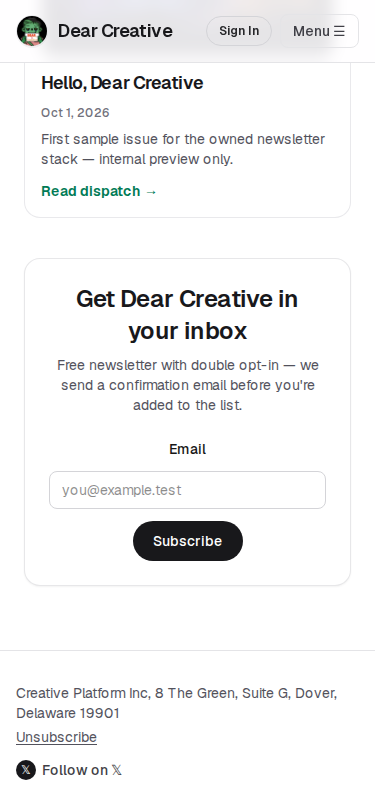
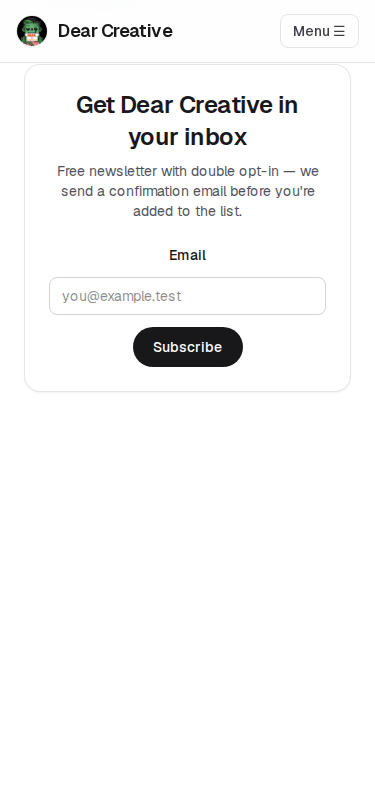
fix(header): single scroll offset and tighter subscribe e2e
Remove html scroll-padding-top (Bugbot/CTO) and rely on #subscribe
scroll-margin via Tailwind plus shared scrollHomeSubscribeIntoView.
Add homepage scroll slack spacer, useLayoutEffect hash correction, and
e2e bounds (0–24px gap, strict /#subscribe URL wait).

diff --git a/src/components/site-header-mobile-subscribe.render.test.tsx b/src/components/site-header-mobile-subscribe.render.test.tsx
@@ -39,11 +39,37 @@ vi.mock("./providers/app-providers", () => ({
 }));
 
 describe("onSubscribeNavClick (homepage)", () => {
+  afterEach(() => {
+    vi.restoreAllMocks();
+  });
+
   it("scrolls to subscribe in-page and runs afterNavigate", () => {
     const section = document.createElement("section");
     section.id = HOME_SUBSCRIBE_SECTION_ID;
-    section.scrollIntoView = vi.fn();
+    section.getBoundingClientRect = () =>
+      ({
+        top: 200,
+        bottom: 400,
+        left: 0,
+        right: 0,
+        width: 0,
+        height: 0,
+        x: 0,
+        y: 200,
+        toJSON: () => ({}),
+      }) as DOMRect;
     document.body.appendChild(section);
+    Object.defineProperty(window, "scrollY", { value: 100, configurable: true });
+    Object.defineProperty(document.documentElement, "scrollHeight", {
+      value: 2000,
+      configurable: true,
+    });
+    Object.defineProperty(window, "innerHeight", { value: 800, configurable: true });
+    vi.spyOn(window, "scrollTo").mockImplementation(() => {});
+    vi.spyOn(window, "getComputedStyle").mockReturnValue({
+      scrollMarginTop: "64px",
+    } as CSSStyleDeclaration);
+
     const afterNavigate = vi.fn();
     const preventDefault = vi.fn();
     const handler = onSubscribeNavClick("/", afterNavigate);
@@ -51,10 +77,7 @@ describe("onSubscribeNavClick (homepage)", () => {
       preventDefault,
     } as unknown as React.MouseEvent<HTMLAnchorElement>);
     expect(preventDefault).toHaveBeenCalledTimes(1);
-    expect(section.scrollIntoView).toHaveBeenCalledWith({
-      behavior: "smooth",
-      block: "start",
-    });
+    expect(window.scrollTo).toHaveBeenCalledWith({ top: 236, behavior: "smooth" });
     expect(afterNavigate).toHaveBeenCalledTimes(1);
     section.remove();
   });

diff --git a/src/components/home/scroll-home-subscribe-into-view.test.ts b/src/components/home/scroll-home-subscribe-into-view.test.ts
@@ -1,0 +1,43 @@
+/**
+ * @vitest-environment jsdom
+ */
+import { describe, expect, it, vi } from "vitest";
+import { HOME_SUBSCRIBE_SECTION_ID } from "./home-subscribe-cta";
+import { scrollHomeSubscribeIntoView } from "./scroll-home-subscribe-into-view";
+
+describe("scrollHomeSubscribeIntoView", () => {
+  it("scrolls using scroll-margin-top from computed styles", () => {
+    const section = document.createElement("section");
+    section.id = HOME_SUBSCRIBE_SECTION_ID;
+    section.getBoundingClientRect = () =>
+      ({
+        top: 200,
+        bottom: 400,
+        left: 0,
+        right: 0,
+        width: 0,
+        height: 0,
+        x: 0,
+        y: 200,
+        toJSON: () => ({}),
+      }) as DOMRect;
+    document.body.appendChild(section);
+
+    Object.defineProperty(window, "scrollY", { value: 100, configurable: true });
+    Object.defineProperty(window, "innerHeight", { value: 800, configurable: true });
+    Object.defineProperty(document.documentElement, "scrollHeight", {
+      value: 3000,
+      configurable: true,
+    });
+
+    vi.spyOn(window, "getComputedStyle").mockReturnValue({
+      scrollMarginTop: "64px",
+    } as CSSStyleDeclaration);
+    const scrollTo = vi.spyOn(window, "scrollTo").mockImplementation(() => {});
+
+    scrollHomeSubscribeIntoView("instant");
+
+    expect(scrollTo).toHaveBeenCalledWith({ top: 236, behavior: "instant" });
+    section.remove();
+  });
+});

diff --git a/e2e/subscribe-nav-hash-scroll.spec.ts b/e2e/subscribe-nav-hash-scroll.spec.ts
@@ -19,7 +19,7 @@ test.describe("Subscribe nav and hash scroll", () => {
       "aria-expanded",
       "false",
     );
-    await page.waitForURL(/\/?(#subscribe)?$/, { timeout: 15_000 });
+    await page.waitForURL(/\/#subscribe$/, { timeout: 15_000 });
   });
 
   test("#subscribe is not hidden under the sticky header at 375px", async ({ page }) => {
@@ -29,15 +29,17 @@ test.describe("Subscribe nav and hash scroll", () => {
     const subscribe = page.locator("#subscribe");
     await expect(subscribe).toBeVisible({ timeout: 15_000 });
 
+    const maxGapPx = 24;
+
     await page.waitForFunction(
-      () => {
+      (maxGap) => {
         const header = document.querySelector("header");
         const section = document.getElementById("subscribe");
         if (!header || !section) return false;
         const gap = section.getBoundingClientRect().top - header.getBoundingClientRect().bottom;
-        return gap >= -1;
+        return gap >= 0 && gap <= maxGap;
       },
-      undefined,
+      maxGapPx,
       { timeout: 15_000 },
     );
 
@@ -49,6 +51,7 @@ test.describe("Subscribe nav and hash scroll", () => {
     });
 
     expect(gap).not.toBeNull();
-    expect(gap!).toBeGreaterThanOrEqual(-1);
+    expect(gap!).toBeGreaterThanOrEqual(0);
+    expect(gap!).toBeLessThanOrEqual(maxGapPx);
   });
 });

diff --git a/src/components/home/home-subscribe-hash-scroll.tsx b/src/components/home/home-subscribe-hash-scroll.tsx
@@ -1,22 +1,23 @@
 "use client";
 
-import { useEffect } from "react";
+import { useLayoutEffect } from "react";
 import { usePathname } from "next/navigation";
-import { HOME_SUBSCRIBE_SECTION_ID } from "@/components/home/home-subscribe-cta";
+import { scrollHomeSubscribeIntoView } from "@/components/home/scroll-home-subscribe-into-view";
 
 export function HomeSubscribeHashScroll() {
   const pathname = usePathname();
 
-  useEffect(() => {
+  useLayoutEffect(() => {
     if (pathname !== "/") {
       return;
     }
     if (window.location.hash !== "#subscribe") {
       return;
     }
-    // Native hash + scrollIntoView honor #subscribe scroll-margin-top (globals.css).
-    const target = document.getElementById(HOME_SUBSCRIBE_SECTION_ID);
-    target?.scrollIntoView({ behavior: "smooth", block: "start" });
+    scrollHomeSubscribeIntoView("instant");
+    requestAnimationFrame(() => {
+      scrollHomeSubscribeIntoView("smooth");
+    });
   }, [pathname]);
 
   return null;

diff --git a/src/components/site-header.tsx b/src/components/site-header.tsx
@@ -3,7 +3,7 @@
 import Link from "next/link";
 import { usePathname } from "next/navigation";
 import { useId, useState, type MouseEvent } from "react";
-import { HOME_SUBSCRIBE_SECTION_ID } from "@/components/home/home-subscribe-cta";
+import { scrollHomeSubscribeIntoView } from "@/components/home/scroll-home-subscribe-into-view";
 import { useAuthSession } from "./providers/app-providers";
 import { ReaderAccountDropdown } from "./wallet/reader-account-dropdown";
 import type { ReaderWalletPreviewData } from "./wallet/reader-wallet-panel";
@@ -48,10 +48,7 @@ export function isNavLinkActive(pathname: string | null, link: SiteNavLink): boo
 }
 
 function scrollToHomeSubscribeCard(): void {
-  document.getElementById(HOME_SUBSCRIBE_SECTION_ID)?.scrollIntoView({
-    behavior: "smooth",
-    block: "start",
-  });
+  scrollHomeSubscribeIntoView("smooth");
   window.history.replaceState(null, "", "#subscribe");
 }
 

diff --git a/src/components/home/scroll-home-subscribe-into-view.ts b/src/components/home/scroll-home-subscribe-into-view.ts
@@ -1,0 +1,22 @@
+import { HOME_SUBSCRIBE_SECTION_ID } from "@/components/home/home-subscribe-cta";
+
+/** Scrolls #subscribe using its CSS scroll-margin-top (see globals.css). */
+export function scrollHomeSubscribeIntoView(
+  behavior: ScrollBehavior = "smooth",
+): void {
+  const target = document.getElementById(HOME_SUBSCRIBE_SECTION_ID);
+  if (!target) {
+    return;
+  }
+
+  const marginTop =
+    Number.parseFloat(getComputedStyle(target).scrollMarginTop) || 0;
+  const docTop = target.getBoundingClientRect().top + window.scrollY;
+  const desiredTop = Math.max(0, docTop - marginTop);
+  const maxTop = Math.max(
+    0,
+    document.documentElement.scrollHeight - window.innerHeight,
+  );
+
+  window.scrollTo({ top: Math.min(desiredTop, maxTop), behavior });
+}

diff --git a/src/components/home/home-subscribe-cta.tsx b/src/components/home/home-subscribe-cta.tsx
@@ -11,7 +11,7 @@ export function HomeSubscribeCta() {
     <section
       id={HOME_SUBSCRIBE_SECTION_ID}
       aria-labelledby="home-subscribe-heading"
-      className="rounded-2xl border border-zinc-200/90 bg-white p-6 text-center shadow-xs dark:border-zinc-800 dark:bg-zinc-900/60 md:p-8"
+      className="scroll-mt-[var(--site-sticky-header-offset)] rounded-2xl border border-zinc-200/90 bg-white p-6 text-center shadow-xs dark:border-zinc-800 dark:bg-zinc-900/60 md:p-8"
     >
       <h2
         id="home-subscribe-heading"

diff --git a/src/app/page.tsx b/src/app/page.tsx
@@ -70,6 +70,10 @@ export default function Home() {
       >
         <HomeAboutSection />
       </Suspense>
+      <div
+        aria-hidden
+        className="pointer-events-none h-[calc(100dvh-var(--site-sticky-header-offset))] shrink-0"
+      />
     </main>
   );
 }

diff --git a/src/app/globals.css b/src/app/globals.css
@@ -23,11 +23,6 @@
 
 html {
   scroll-behavior: smooth;
-  scroll-padding-top: var(--site-sticky-header-offset);
-}
-
-#subscribe {
-  scroll-margin-top: var(--site-sticky-header-offset);
 }
 
 body {
